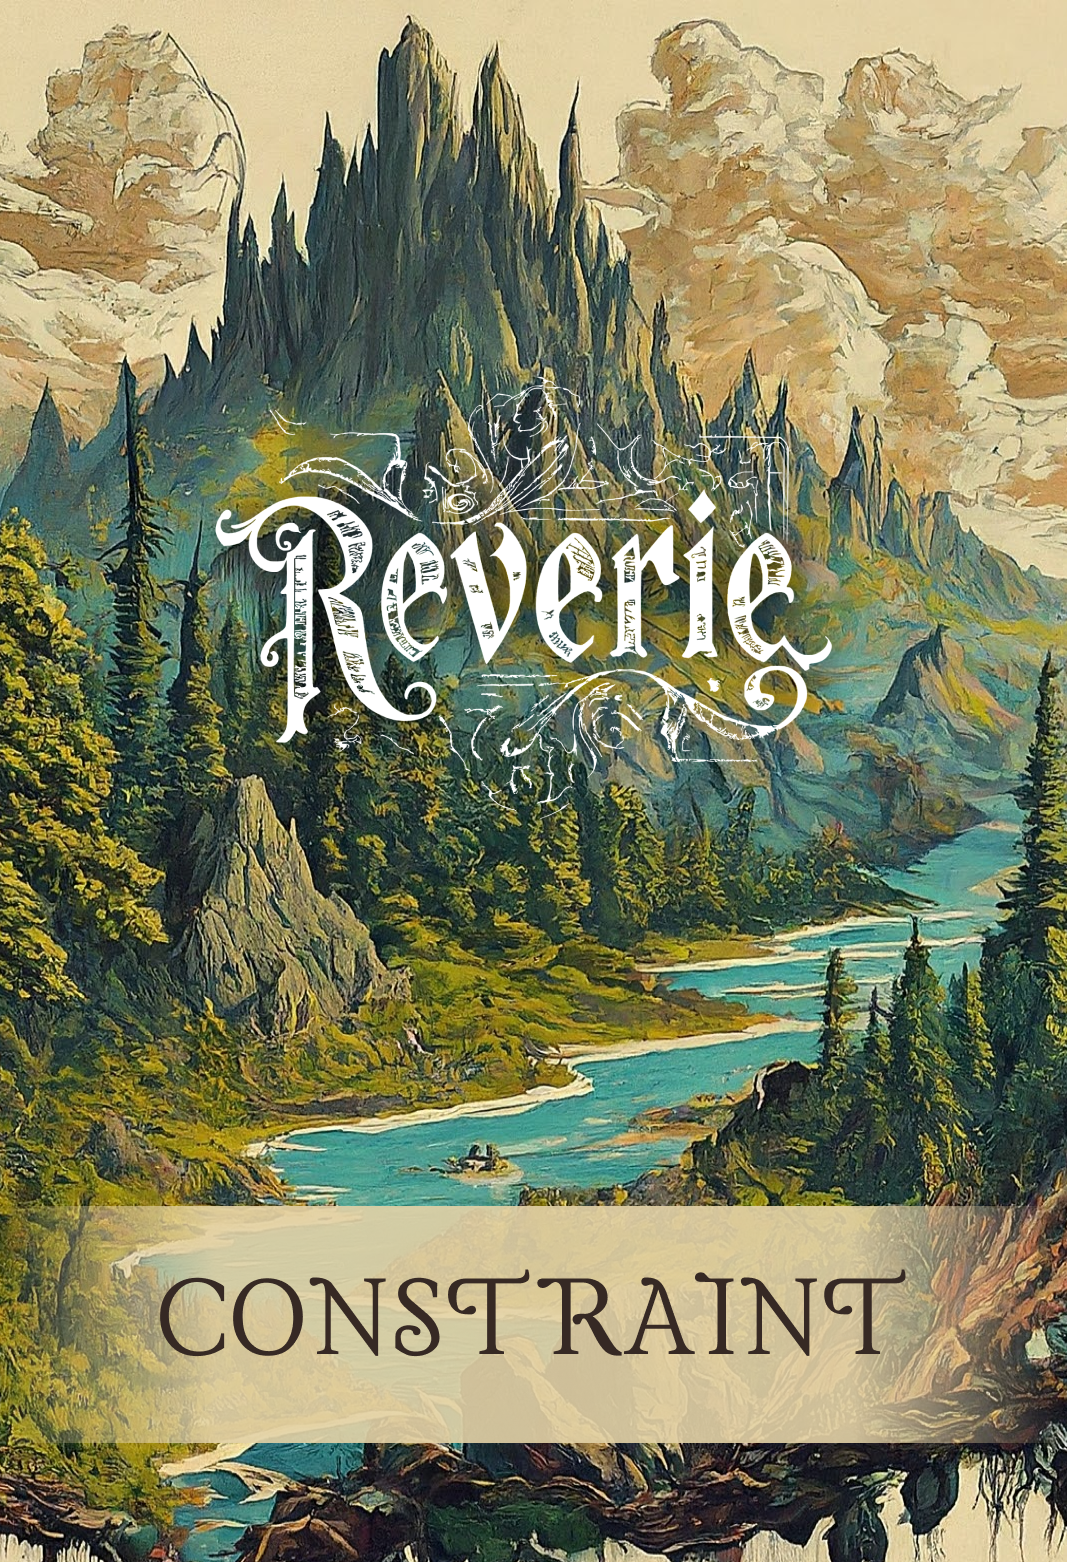
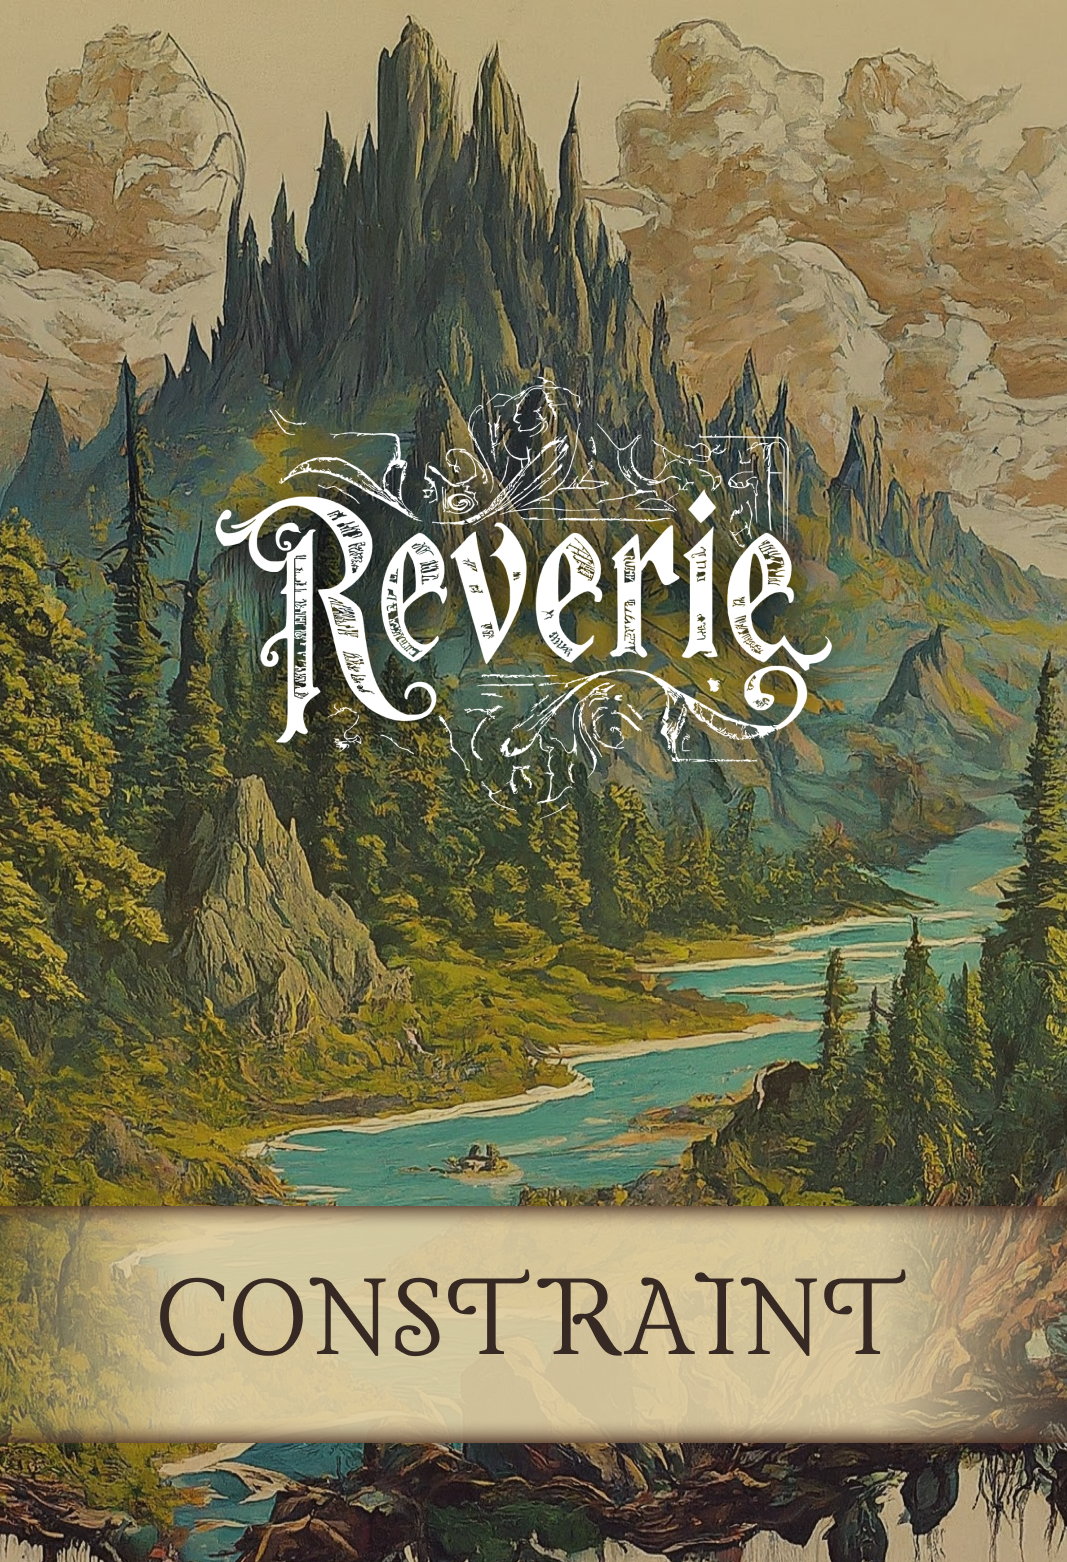
Background image and home screen update

diff --git a/app/game/play/page.tsx b/app/game/play/page.tsx
@@ -90,7 +90,7 @@ const PlayGame = () => {
       if (audioRef.current) {
         audioRef.current.play();
       }
-      
+
       // Filter out the currentStory from the storyImages
       const filteredImages = storyImages.filter((image) => image !== currentStory);
 
@@ -181,6 +181,9 @@ const PlayGame = () => {
             </ul>
           </div>
         </div>
+        <div className="logo-container">
+        <a href="/" ><img src="/images/Reverie-Logo-White.png" alt="Game Logo" width="100"  /></a>
+        </div>
         <div className="score-box">
           <h2>SCORES</h2>
           <p>Team 1: {team1Score}</p>
@@ -214,8 +217,8 @@ const PlayGame = () => {
             <div className="storyClues">
               <div className={`flip-card ${storyFlipped ? 'flipped' : ''}`} onClick={() => handleCardClick('story')}>
                 <div className="flip-card-inner">
-                  <div className="flip-card-front">
-                    <div className="card-back">Story Card</div>
+                  <div className="flip-card-front-story">
+
                   </div>
                   <div className="flip-card-back">
                     {currentStory && <img src={`/story-cards/${currentStory}`} alt="Story Card" className="story-image" />}
@@ -224,8 +227,8 @@ const PlayGame = () => {
               </div>
               <div className={`flip-card ${constraintFlipped ? 'flipped' : ''}`} onClick={() => handleCardClick('constraint')}>
                 <div className="flip-card-inner">
-                  <div className="flip-card-front">
-                    <div className="card-back">Constraint Card</div>
+                  <div className="flip-card-front-constraint">
+
                   </div>
                   <div className="flip-card-back">
                     <div className="constraint-card">

diff --git a/styles/globals.css b/styles/globals.css
@@ -38,13 +38,14 @@
 } 
 */
 body {
-  background-image: url('/images/bg.gif');
+  background-image: url('/images/reverie-landscape-gif.gif');
+  /* background-image: url('/images/landscape-gif-slow.gif');  */
   background-size: cover; /* Adjusts the size of the background image */
   background-repeat: no-repeat; /* Prevents the image from repeating */
   background-position: center center; /* Centers the background image */
   margin: 0; /* Removes default margin */
   padding: 0; /* Removes default padding */
-  height: 100vh; /* Makes sure the body takes up the full viewport height */
+  height: 110vh; /* Makes sure the body takes up the full viewport height */
   font-family: Verdana, Geneva, Tahoma, sans-serif;
   font-weight: lighter;
   color:aliceblue;
@@ -60,7 +61,7 @@ body::before {
   left: 0;
   width: 100%;
   height: 100%;
-  background: linear-gradient(135deg, rgba(10, 9, 8, 0.9), rgba(22, 34, 51, 0.8));
+  background: linear-gradient(135deg, rgba(97, 59, 21, 0.6), rgba(2, 2, 2, 0.2));
   z-index: 1; /* Ensures the overlay is above the background image but below the content */
 }
 
@@ -135,3 +136,21 @@ body > * {
   background-image: linear-gradient(135deg, rgba(50, 166, 167,0.5), rgba(67, 106, 172,0.5), rgba(137, 41, 173,0.5));
 }
 
+/* 
+.gamemode button{
+  margin-left: 20px;
+  margin-right: 20px;
+  border: 0.4px solid aliceblue;
+  color: white;
+  padding: 0.3rem 3rem;
+  border-radius: 100px;
+}
+
+.gamemode button:hover{
+  background-image: linear-gradient(135deg, rgba(255, 255, 255, 0.5), rgba(226, 214, 188, 0.5), rgba(255, 252, 232, 0.5));
+  transition: background-color 1s ease-in 0.5s;
+}
+
+.selected-button{
+  background-image: linear-gradient(135deg, rgba(50, 166, 167,0.5), rgba(67, 106, 172,0.5), rgba(137, 41, 173,0.5));
+} */

diff --git a/styles/game.css b/styles/game.css
@@ -23,6 +23,10 @@ body{
   margin-left: 50px;
 }
 
+.logo-container{
+  margin-top:-20px;
+}
+
 .gamesetup{
   position: absolute;
   left: 50%;
@@ -100,7 +104,7 @@ input[type="number"] {
 /* Initial gamne screen */
 
 .gameplay-content {
-  margin-top: 10%;
+  margin-top: 8%;
 }
 
 .gameplay-container {
@@ -178,7 +182,7 @@ input[type="number"] {
   transform: rotateY(180deg);
 }
 
-.flip-card-front, .flip-card-back {
+.flip-card-front-story,.flip-card-front-constraint, .flip-card-back {
   position: absolute;
   width: 100%;
   height: 100%;
@@ -186,8 +190,21 @@ input[type="number"] {
   backface-visibility: hidden;
 }
 
-.flip-card-front {
-  background-color: red; /* Red background for the front */
+.flip-card-front-story {
+  background-image: url('/images/story-card-bg.png');
+  background-size: 100% 100%;
+  border-radius: 10px; /* Rounded corners */
+  display: flex;
+  justify-content: center;
+  align-items: center;
+  color: white;
+  font-size: 24px;
+}
+
+
+.flip-card-front-constraint {
+  background-image: url('/images/constraint-card-bg.png');
+  background-size: 100% 100%;
   border-radius: 10px; /* Rounded corners */
   display: flex;
   justify-content: center;

diff --git a/styles/Home.module.css b/styles/Home.module.css
@@ -23,18 +23,26 @@
 
   .button {
     border: 0.4px solid aliceblue;
-    color: white;
+    color:rgb(56, 32, 8);
     padding: 0.3rem 3rem;
     border-radius: 100px;
     text-decoration: none;
+    font-weight: 200;
     font-size: 1.5rem;
+    background-color: rgba(234, 208, 174, 0.8);
+    box-shadow:  0 4px 8px rgba(0, 0, 0, 0.6);
+
     /* transition: background-color 1s; */
   }
   
   .button:hover {
-    /* background-image: linear-gradient(135deg, #363553, #903775, #e8458b); */
-    background-image: linear-gradient(135deg, rgba(50, 166, 167,0.5), rgba(67, 106, 172,0.5), rgba(137, 41, 173,0.5));
+
+    background-image: linear-gradient(90deg, rgba(255, 255, 255, 0.7), rgba(226, 214, 188, 0.2), rgba(250, 243, 233, 0.8));;
     transition: background-color 1s ease-in 0.5s;
+    color:rgb(56, 32, 8);
+    box-shadow:  0 4px 8px rgba(0, 0, 0, 0.2);
+
     
   }
+  
   

diff --git a/app/page.tsx b/app/page.tsx
@@ -7,11 +7,11 @@ export default function Home() {
   return (
     <main className={styles.container}>
       <Image
-        src="/images/logo.png"
+        src="/images/Reverie-Logo-White-shadow.png"
         alt="Reverie Logo"
         className={styles.logo}
-        width={600}
-        height={300}
+        width={400}
+        height={200}
       />
       <div className={styles.buttons}>
       

diff --git a/app/game/page.tsx b/app/game/page.tsx
@@ -72,7 +72,7 @@ const GamePage = () => {
   return (
     <div className="page-gamesetup">
       <header className="header">
-        <a href="/" ><img src="/images/logo.png" alt="Game Logo" width="180" height="100" /></a>  
+        <a href="/" ><img src="/images/Reverie-Logo-White.png" alt="Game Logo" width="180" height="100" /></a>  
       </header>
 
       <div className="gamesetup"> 
